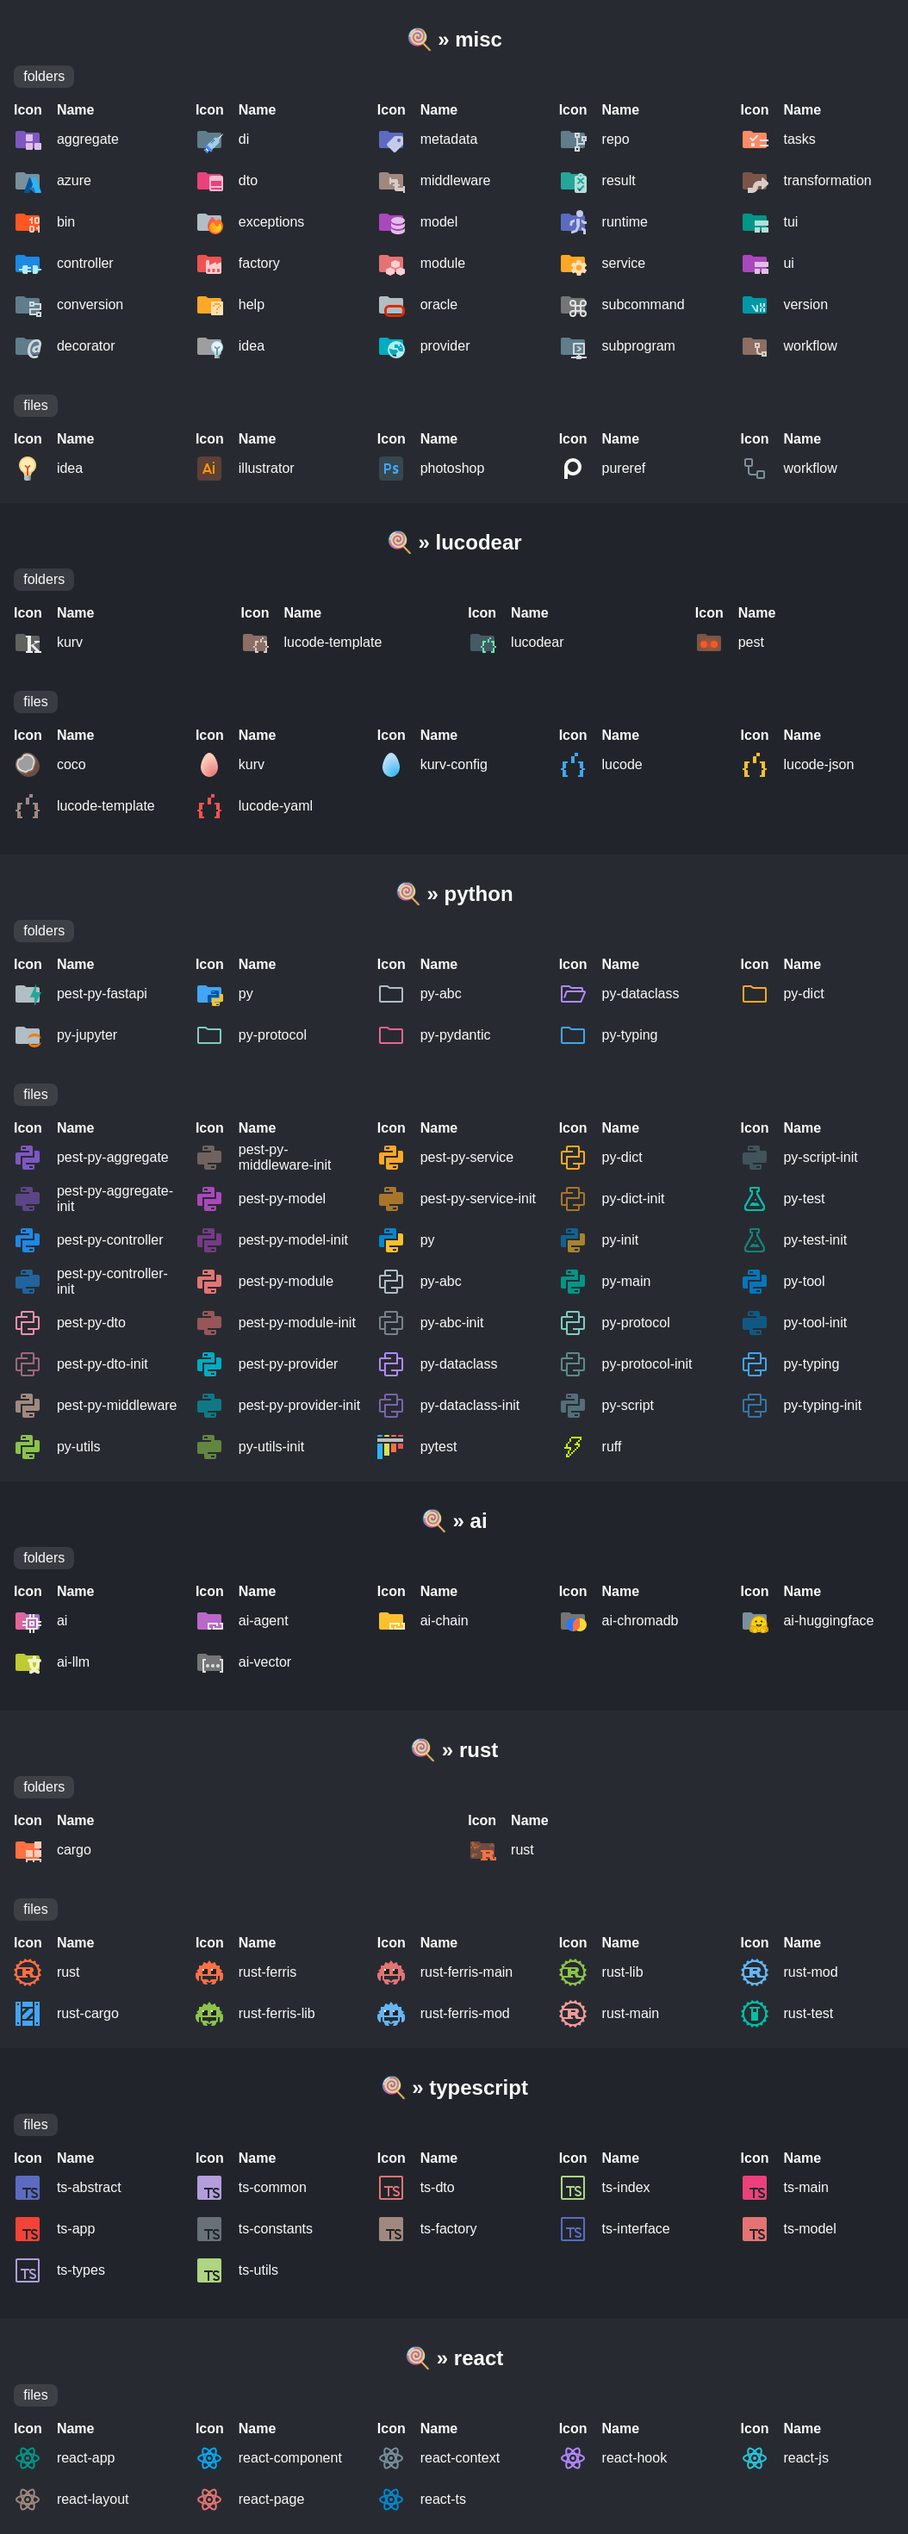
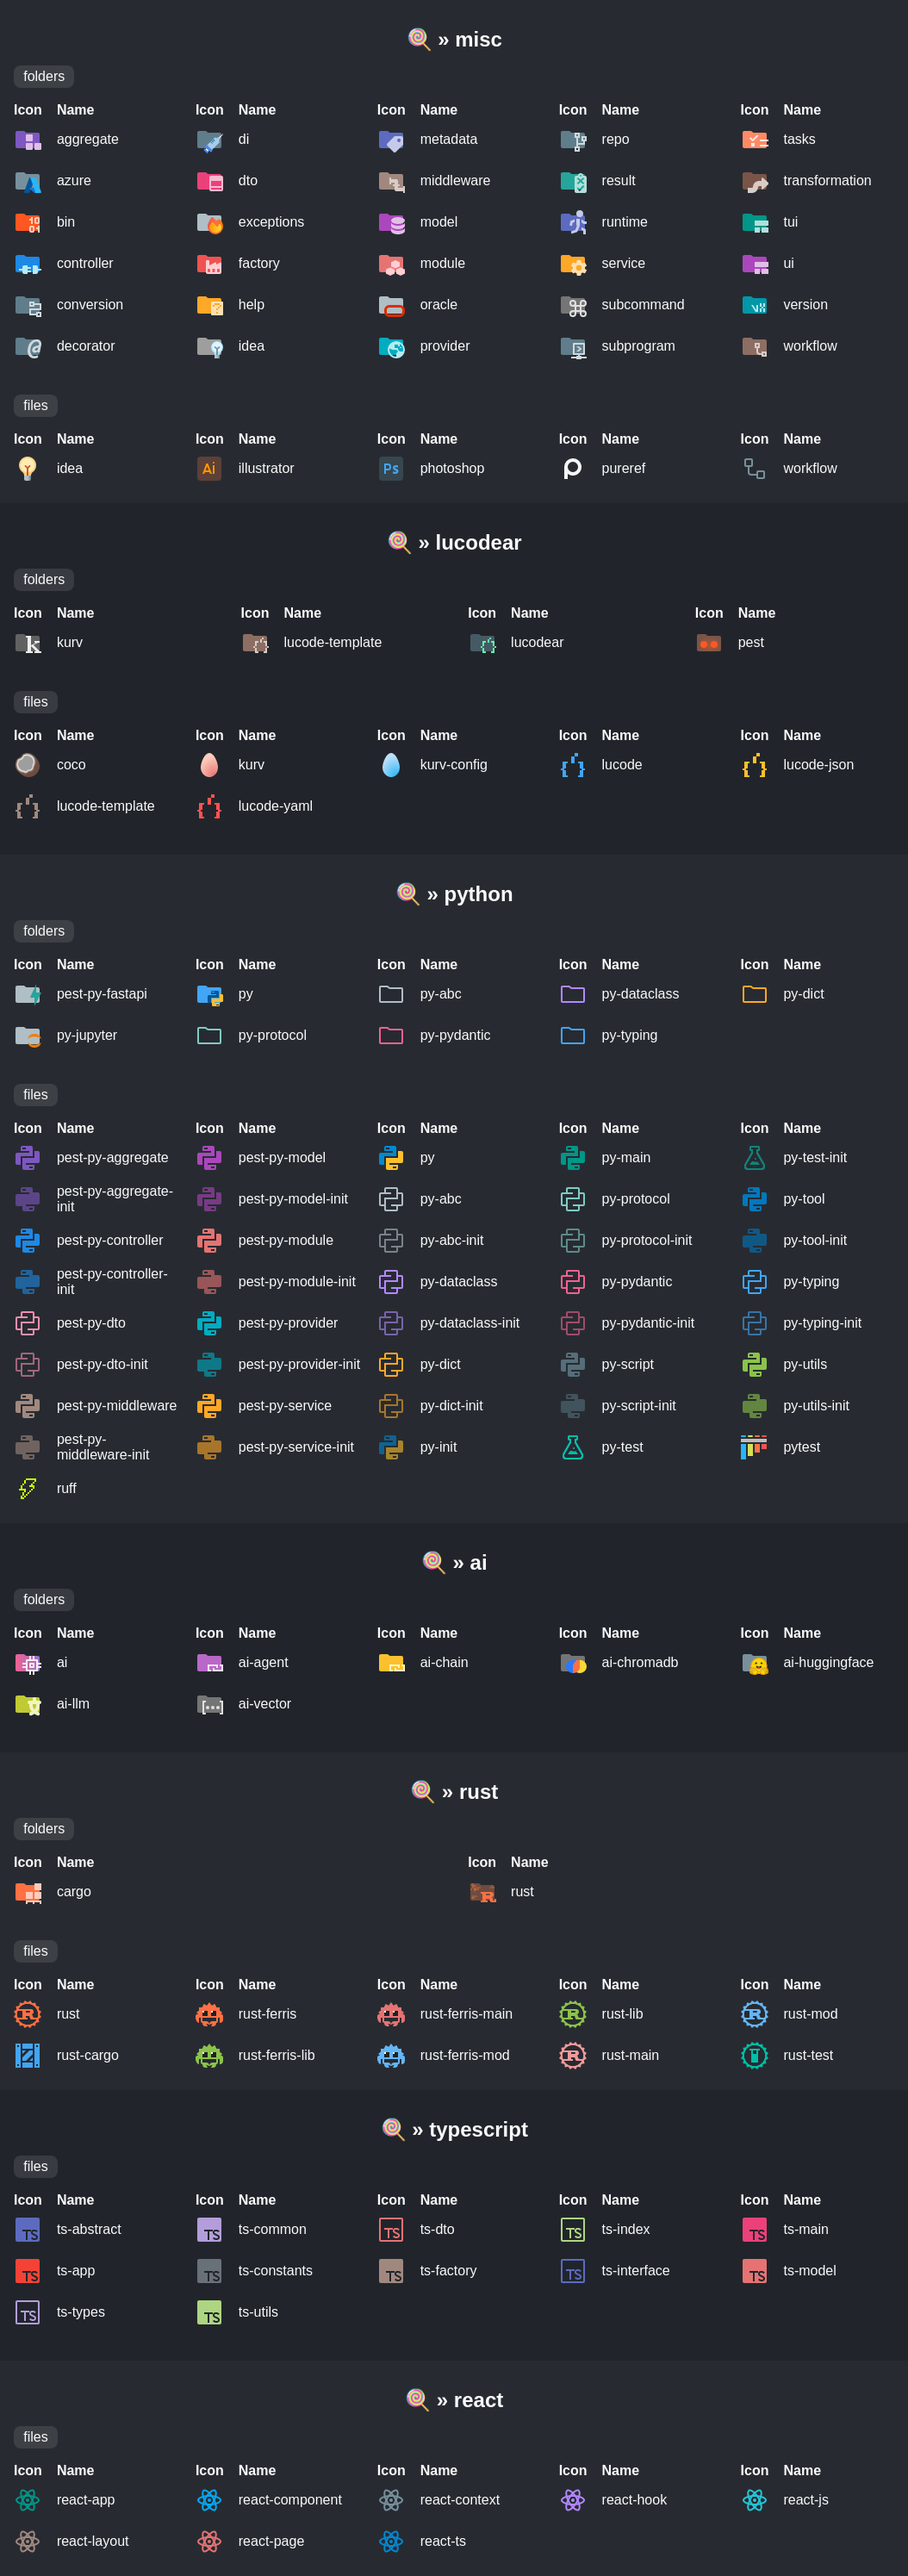
release: 🔖 v0.33.1

diff --git a/CHANGELOG.md b/CHANGELOG.md
@@ -3,10 +3,17 @@
  All notable changes to this project will be documented in this file. Dates are displayed in UTC.
 
  
+#### [v0.33.1](https://github.com/PKief/vscode-material-icon-theme/compare/v0.33.0...v0.33.1) 
+
+> March 20, 2024 
+
+- feat: ✨ pydantic missing files + wrong folder dataclass [`f545f284`](https://github.com/PKief/vscode-material-icon-theme/commit/f545f284)
+ 
 #### [v0.33.0](https://github.com/PKief/vscode-material-icon-theme/compare/v0.32.0...v0.33.0) 
 
 > March 19, 2024 
 
+- release: 🔖 v0.33.0 [`40db01aa`](https://github.com/PKief/vscode-material-icon-theme/commit/40db01aa)
 - fix: 🚑 wrong file for folder pydantic [`2a9eec9d`](https://github.com/PKief/vscode-material-icon-theme/commit/2a9eec9d)
 - feat: ✨ alternative hollow python folders [`139461f6`](https://github.com/PKief/vscode-material-icon-theme/commit/139461f6)
 - fix: 🚑 fix package lock to not point to verdaccio [`1f34115f`](https://github.com/PKief/vscode-material-icon-theme/commit/1f34115f)
